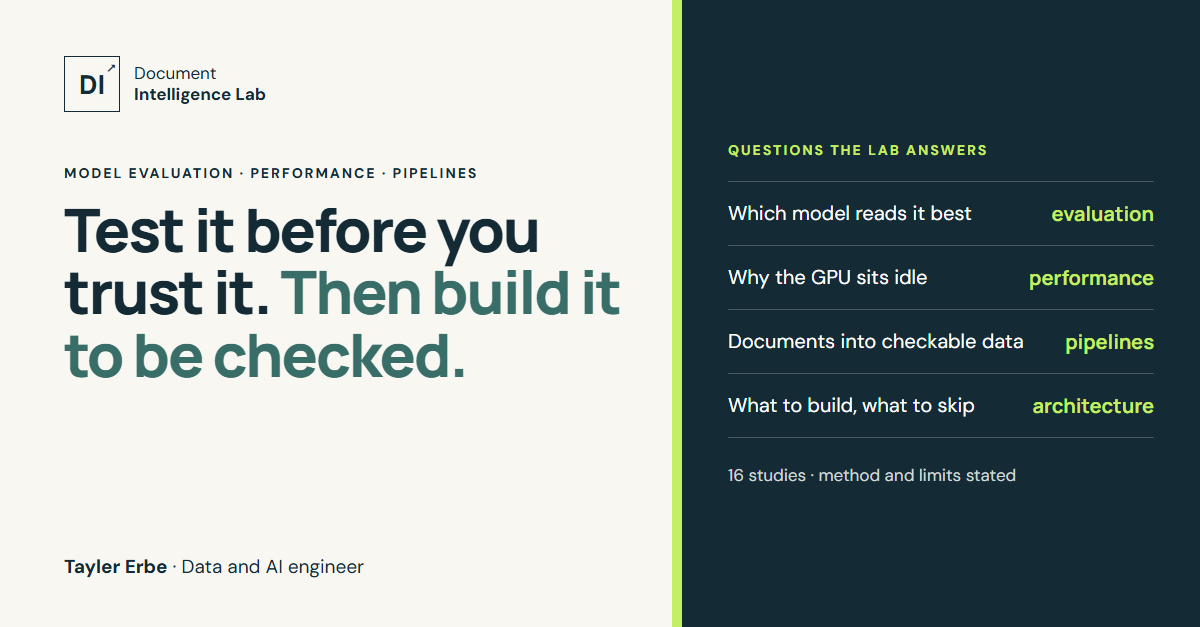
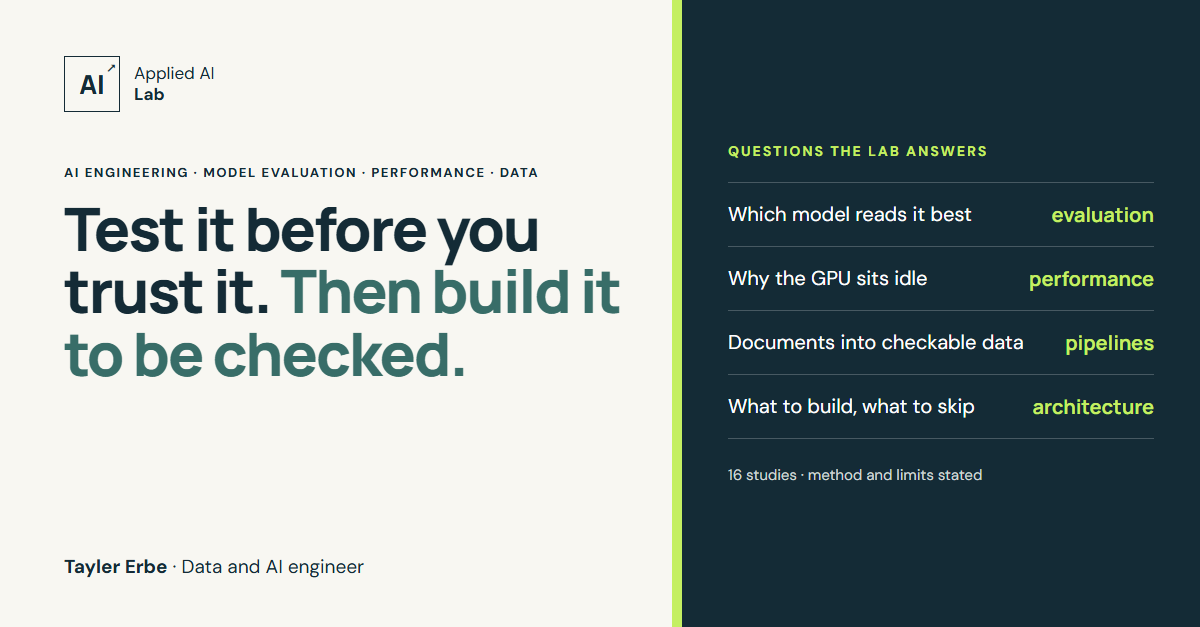
Rename the Lab: Document Intelligence Lab is now Applied AI Lab
The Lab covers AI engineering, model evaluation, performance engineering
and data pipelines, not only documents. Display name and brand mark only;
web addresses are unchanged.

diff --git a/index.html b/index.html
@@ -1,14 +1,14 @@
 <!doctype html>
 <html lang="en"><head><meta charset="utf-8"><meta name="viewport" content="width=device-width,initial-scale=1"><meta name="theme-color" content="#142b36">
-<meta name="description" content="Tayler Erbe's Document Intelligence Lab: model evaluations, inference performance studies, data pipelines and solution designs for reading documents with local AI, each with its method and limits stated.">
-<title>Document Intelligence Lab · Tayler Erbe</title>
-<meta property="og:type" content="website"><meta property="og:title" content="Document Intelligence Lab · Tayler Erbe"><meta property="og:description" content="Model evaluations, performance studies, data pipelines and solution designs for local document AI. Every study states its method and its limits."><meta property="og:url" content="https://tayler-erbe.github.io/document-intelligence-lab/"><meta property="og:image" content="https://tayler-erbe.github.io/document-intelligence-lab/og.png"><meta property="og:image:width" content="1200"><meta property="og:image:height" content="627"><meta property="og:image:alt" content="Document Intelligence Lab: Test it before you trust it. Then build it to be checked. Tayler Erbe, data and AI engineer."><meta name="twitter:card" content="summary_large_image"><meta name="author" content="Tayler Erbe">
+<meta name="description" content="Tayler Erbe's Applied AI Lab: AI engineering, model evaluation, performance engineering and data pipelines for documents and enterprise data, each study with its method and limits stated.">
+<title>Applied AI Lab · Tayler Erbe</title>
+<meta property="og:type" content="website"><meta property="og:title" content="Applied AI Lab · Tayler Erbe"><meta property="og:description" content="AI engineering, model evaluation, performance engineering and data pipelines for documents and enterprise data. Every study states its method and its limits."><meta property="og:url" content="https://tayler-erbe.github.io/document-intelligence-lab/"><meta property="og:image" content="https://tayler-erbe.github.io/document-intelligence-lab/og.png"><meta property="og:image:width" content="1200"><meta property="og:image:height" content="627"><meta property="og:image:alt" content="Applied AI Lab: Test it before you trust it. Then build it to be checked. AI engineering, model evaluation, performance engineering and data pipelines. Tayler Erbe."><meta name="twitter:card" content="summary_large_image"><meta name="author" content="Tayler Erbe">
 <link rel="canonical" href="https://tayler-erbe.github.io/document-intelligence-lab/">
 <link rel="icon" href="favicon.svg" type="image/svg+xml"><link rel="stylesheet" href="styles.css"><link rel="stylesheet" href="site.css"><link rel="stylesheet" href="lab.css"><script src="lab.js" defer></script></head>
 <body>
 <a href="#main" class="skip">Skip to content</a>
 <header class="site-header">
-<a href="./" class="brand" aria-label="Document Intelligence Lab home"><span class="brand-mark">DI<span>↗</span></span><span>Document<br><strong>Intelligence Lab</strong></span></a>
+<a href="./" class="brand" aria-label="Applied AI Lab home"><span class="brand-mark">AI<span>↗</span></span><span>Applied AI<br><strong>Lab</strong></span></a>
 <nav aria-label="Main navigation"><a href="#studies">Studies</a><a href="#practice">Practice areas</a><a href="#rules">How the Lab works</a><a href="#about">About</a></nav>
 <a class="repo-link" href="https://taylererbe.com/">taylererbe.com <span aria-hidden="true">↗</span></a>
 </header>
@@ -16,15 +16,15 @@
 
 <section class="hero">
 <div class="hero-copy">
-<p class="eyebrow">TAYLER ERBE / DOCUMENT INTELLIGENCE LAB</p>
+<p class="eyebrow">TAYLER ERBE / APPLIED AI LAB</p>
 <h1>Test it before you trust it. <em>Then build it to be checked.</em></h1>
-<p class="hero-deck">This is where I evaluate AI models, measure what they cost to run, and design the pipelines that put them to work on real documents. Each study is a working answer to a practical question, and each one says how it was measured and what it does not show.</p>
-<p class="answer-line"><b>Short version:</b> pick a study by the question it answers. Lab briefs explain the decision in plain language; case studies and repositories hold the detail.</p>
+<p class="hero-deck">This is where I evaluate AI models, measure what they cost to run, and engineer the pipelines and systems that put them to work, mostly on documents and enterprise data. Each study is a working answer to a practical question, and each one says how it was measured and what it does not show.</p>
+<p class="answer-line"><b>What's inside:</b> AI engineering, model evaluation and selection, performance engineering, data engineering and solution architecture. Pick a study by the question it answers. Lab briefs explain the decision in plain language; case studies and repositories hold the detail.</p>
 <div class="hero-actions">
 <a href="#studies" class="button primary">Browse the studies <span aria-hidden="true">↓</span></a>
 <a href="#rules" class="text-link">How the Lab works ↓</a>
 </div>
-<p class="author-line"><span><b>Tayler Erbe</b> · Data and AI engineer · evaluation, performance and pipelines for document AI. <a href="#about">About</a></span></p>
+<p class="author-line"><span><b>Tayler Erbe</b> · Data and AI engineer · evaluation, performance and pipelines for applied AI. <a href="#about">About</a></span></p>
 </div>
 <div class="hero-figure">
 <div class="figure-top"><span>QUESTIONS THE LAB ANSWERS</span></div>
@@ -251,13 +251,13 @@
 <div><p class="eyebrow">ABOUT THE LAB</p><h2 style="font-size:clamp(30px,3vw,42px)">Tayler Erbe</h2></div>
 <div>
 <p class="large-copy" style="font-size:20px">I'm a data and AI engineer. I design, build and measure end-to-end systems that read documents with local AI, and I work directly with the people who will rely on them.</p>
-<p>The Lab collects my evaluation, performance and pipeline work in one place. My background, roles and other projects are on <a href="https://taylererbe.com/">taylererbe.com</a>; code is on <a href="https://github.com/tayler-erbe">GitHub</a>.</p>
+<p>The Lab collects my AI engineering, model evaluation, performance and data pipeline work in one place. My background, roles and other projects are on <a href="https://taylererbe.com/">taylererbe.com</a>; code is on <a href="https://github.com/tayler-erbe">GitHub</a>.</p>
 </div>
 </div>
 </section>
 </main>
 <footer class="wrap">
-<div><strong>Document Intelligence Lab</strong><p>Tayler Erbe · Last updated 10 November 2026 · Public data and design only.</p></div>
+<div><strong>Applied AI Lab</strong><p>Tayler Erbe · Last updated 10 November 2026 · Public data and design only.</p></div>
 <a href="https://taylererbe.com/">taylererbe.com ↗</a>
 </footer>
 </body></html>

diff --git a/lab.css b/lab.css
@@ -1,4 +1,4 @@
-/* Additions for the Lab home page. Built on styles.css and site.css from the Document Intelligence Lab; same tokens, fonts and spacing. */
+/* Additions for the Lab home page. Built on styles.css and site.css from the Applied AI Lab; same tokens, fonts and spacing. */
 .site-header{top:env(safe-area-inset-top,0px)}
 .hero-panel h2{margin-bottom:18px}
 .hero-panel ul{list-style:none;padding:0;margin:0 0 18px;border-top:1px solid rgba(255,255,255,.18)}

diff --git a/shared/study.css b/shared/study.css
@@ -1,4 +1,4 @@
-/* Additions for Lab study briefs. Built on styles.css and site.css from the Document Intelligence Lab; same tokens, fonts and spacing. */
+/* Additions for Lab study briefs. Built on styles.css and site.css from the Applied AI Lab; same tokens, fonts and spacing. */
 .site-header{top:env(safe-area-inset-top,0px)}
 .hero-panel h2{margin-bottom:18px}
 .hero-panel ul{list-style:none;padding:0;margin:0 0 18px;border-top:1px solid rgba(255,255,255,.18)}

diff --git a/CLAUDE.md b/CLAUDE.md
@@ -1,6 +1,6 @@
 # Rules for this repository
 
-This is the PUBLIC catalogue for Tayler Erbe's Document Intelligence Lab.
+This is the PUBLIC catalogue for Tayler Erbe's Applied AI Lab.
 
 - Publish public-benchmark results, aggregates or design only. Never add private documents, document text, extracted values, model outputs from private runs, internal hostnames or file paths, credentials, or the names of colleagues or managers.
 - Every number on a page must match its source study (repository README, report or data). Do not round in a way that changes meaning, and state comparisons precisely (for example, same-model against production-baseline speedups).

diff --git a/README.md b/README.md
@@ -1,6 +1,8 @@
-# Document Intelligence Lab
+# Applied AI Lab
 
-The home page of Tayler Erbe's Document Intelligence Lab: model evaluations, inference performance studies, data pipelines and solution designs for reading documents with local AI.
+(Formerly the Document Intelligence Lab. The web address is unchanged.)
+
+The home page of Tayler Erbe's Applied AI Lab: model evaluations, inference performance studies, data pipelines and solution designs for documents and enterprise data, using local and hosted AI.
 
 **Live site:** https://tayler-erbe.github.io/document-intelligence-lab/
 
